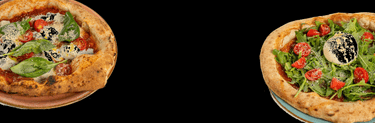
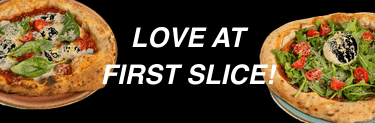
Wallet: add LOVE AT FIRST SLICE text, remove member-since field

Changed region(s): [[0.264, 0.5122, 0.7627, 0.7073], [0.352, 0.2195, 0.6747, 0.3902]]

diff --git a/src/lib/apple-wallet.ts b/src/lib/apple-wallet.ts
@@ -83,15 +83,6 @@ export async function generateApplePass(data: PassData): Promise<Buffer> {
     }
   );
 
-  pass.auxiliaryFields.push(
-    {
-      key: "member_since",
-      label: "Mitglied seit",
-      value: data.createdAt
-        ? new Date(data.createdAt).toLocaleDateString("de-DE", { month: "long", year: "numeric" })
-        : new Date().toLocaleDateString("de-DE", { month: "long", year: "numeric" }),
-    }
-  );
 
   pass.backFields.push(
     {
